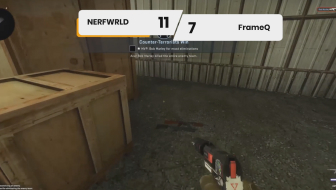
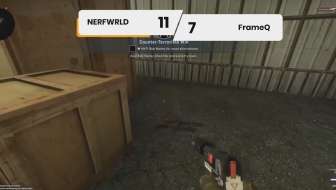
Picture fixes

Changed region(s): [[0.2083, 0.0789, 0.4464, 0.2105]]

diff --git a/src/sections/head/index.html b/src/sections/head/index.html
@@ -15,5 +15,5 @@
 <meta property="og:url" content="https://frame.ninja">
 <meta property="og:description" content="FrameNinja brings together essential tools to powerful control and infinite customization in one place, so broadcasters can design a wonderful stream and rule it with the billions of options.">
 <meta property="og:type" content="product">
-<meta property="og:image" content="/img/social.png">
+<meta property="og:image" content="/img/social.jpg">
 <script async="" src="https://www.googletagmanager.com/gtag/js?id=UA-131687113-1"></script>

diff --git a/src/blocks/control/index.html b/src/blocks/control/index.html
@@ -7,13 +7,13 @@
 
   <div class="control__demo">
     <div class="control__obs">
-      <img src="/img/control_obs.png" />
+      <img src="/img/control_obs.jpg" />
     </div>
     <div class="control__vector">
       <include src="./img/control_vector.svg"></include>
     </div>
     <div class="control__ninja">
-      <img src="/img/control_ninja.png" />
+      <img src="/img/control_ninja.jpg" />
     </div>
   </div>
 </section>

diff --git a/src/blocks/download/index.html b/src/blocks/download/index.html
@@ -42,7 +42,7 @@
         <li>Choose Tools > OBS Websocket Setitings</li>
         <li>Turn on the checkbox “Enable Websocket server”</li>
       </ul>
-      <img src="/img/download_obs.png" class="download__step__image">
+      <img src="/img/download_obs.jpg" class="download__step__image">
     </div>
   </div>
 </div>

diff --git a/src/blocks/story/index.html b/src/blocks/story/index.html
@@ -3,7 +3,7 @@
 
   <div class="story__inner container container--normal">
     <div class="story__inner__photo">
-      <img src="/img/story_photo.png" />
+      <img src="/img/story_photo.jpg" />
     </div>
 
     <div class="story__inner__ninja">
